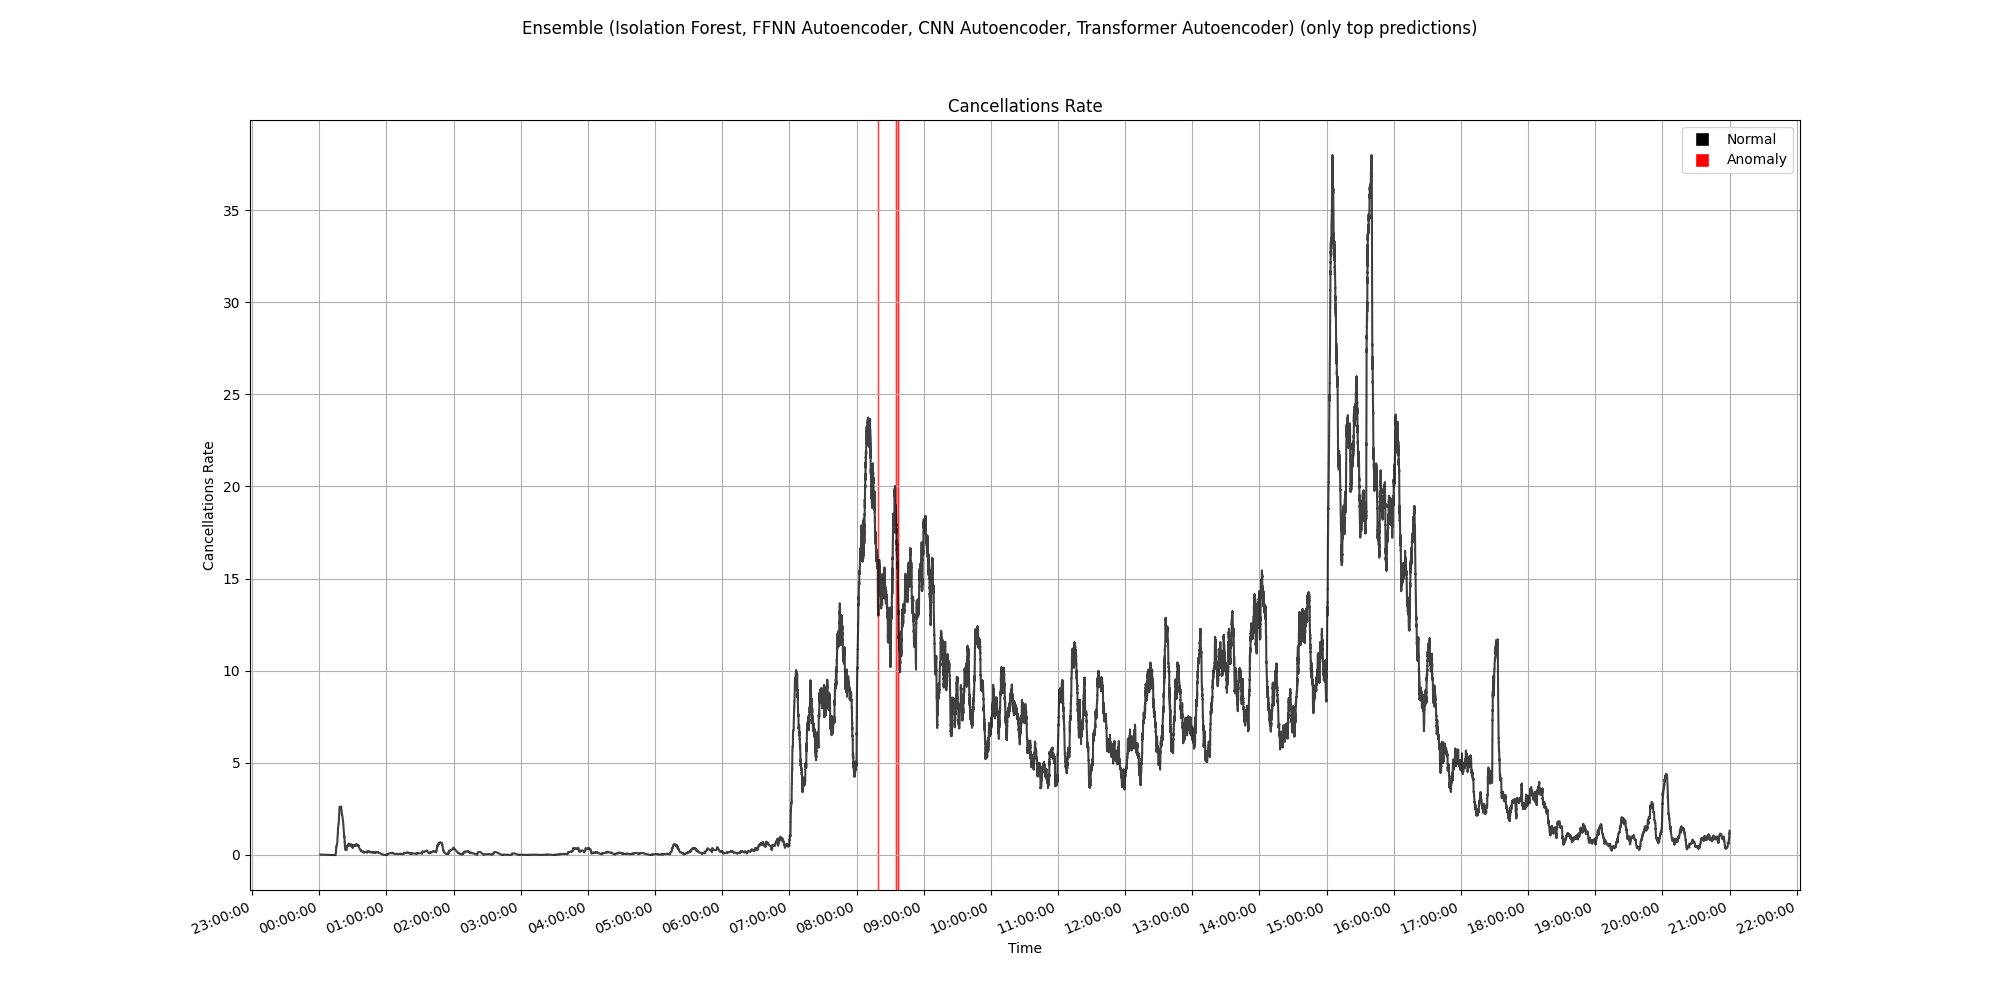
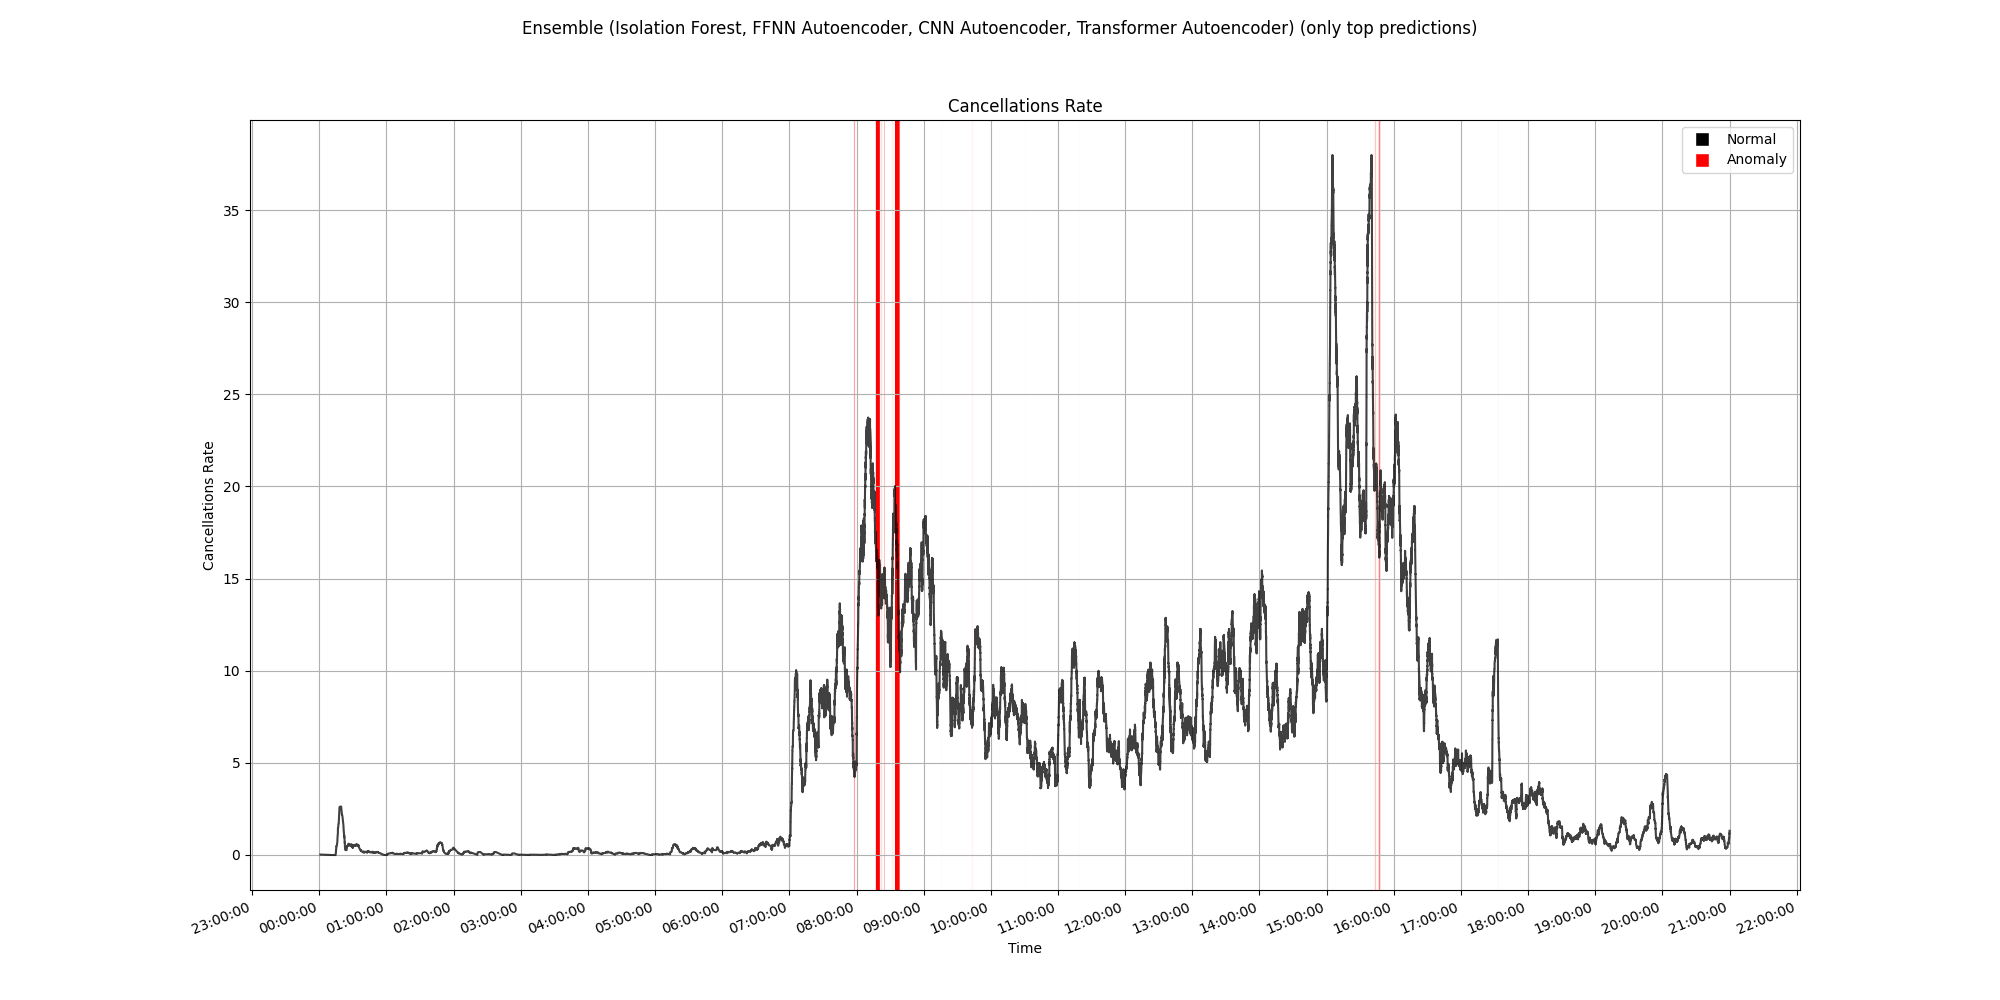
Better thresholding using percentile

Changed region(s): [[0.434, 0.124, 0.465, 0.899]]

diff --git a/src/anomaly_detection/models/ensemble.py b/src/anomaly_detection/models/ensemble.py
@@ -142,7 +142,7 @@ def main(config, data_file_info):
     # # Keep only the predictions, that are 75 % sure or more
     # model_name = f"Ensemble ({', '.join(model_names)}) (only top predictions)"
     # short_model_name = f"Ensemble_top_{'_'.join(short_model_names)}"
-    # threshold = 0.75
+    # threshold = np.percentile(y_scores_ensemble, 99.9)
     # y_pred_ensemble[anomaly_proba_ensemble < threshold] = 1
     # anomaly_proba_ensemble[anomaly_proba_ensemble < threshold] = 0
     # # ------- Thresholding -------------------------------------------------------------------------------------------
@@ -174,19 +174,24 @@ if __name__ == "__main__":
     parser.add_argument("--no_lof", type=str, default="false")
 
     parser.add_argument("--ffnn_batch_size", type=int, default=32)
+    # parser.add_argument("--ffnn_batch_size", type=int, default=16)  # Reduced dims
     parser.add_argument("--ffnn_lr", type=float, default=1e-3)
     parser.add_argument("--ffnn_latent_dim", type=int, default=8)
+    # parser.add_argument("--ffnn_latent_dim", type=int, default=4)  # Reduced dims
     parser.add_argument("--no_ffnn", type=str, default="false")
 
     parser.add_argument("--cnn_batch_size", type=int, default=32)
     parser.add_argument("--cnn_lr", type=float, default=1e-3)
     parser.add_argument("--cnn_latent_dim", type=int, default=8)
+    # parser.add_argument("--cnn_latent_dim", type=int, default=4)  # Reduced dims
     parser.add_argument("--cnn_seq_len", type=int, default=64)
     parser.add_argument("--no_cnn", type=str, default="false")
 
     parser.add_argument("--transformer_batch_size", type=int, default=64)
+    # parser.add_argument("--transformer_batch_size", type=int, default=32)  # Reduced dims
     parser.add_argument("--transformer_lr", type=float, default=1e-4)
     parser.add_argument("--transformer_seq_len", type=int, default=32)
+    # parser.add_argument("--transformer_seq_len", type=int, default=64)  # Reduced dims
     parser.add_argument("--no_transformer", type=str, default="false")
 
     args = parser.parse_args()

diff --git a/src/anomaly_detection/analysis/visuals.py b/src/anomaly_detection/analysis/visuals.py
@@ -111,6 +111,8 @@ def plot_anomalies(date, market_segment_id, security_id, model_name, short_model
     anomaly_alpha = anomaly_proba[y_pred == -1]
     # Normalize the alpha to [0, 1]
     anomaly_alpha = (anomaly_alpha - anomaly_alpha.min()) / (anomaly_alpha.max() - anomaly_alpha.min())
+    # Replace NaN values with 0
+    anomaly_alpha = np.nan_to_num(anomaly_alpha)
 
     if len(time_data) > 500_000:
         anomaly_alpha *= 0.1  # Reduce the alpha for better visualization
@@ -145,7 +147,7 @@ def plot_anomalies(date, market_segment_id, security_id, model_name, short_model
         plt.grid()
 
         plt.savefig(f"img/anomaly_detections/{date}_{market_segment_id}_{security_id}/{short_model_name}_{feature}.png")
-        plt.show()
+        # plt.show()
 
 
 def plot_feat_corr(date, market_segment_id, security_id, corr_matrix):
